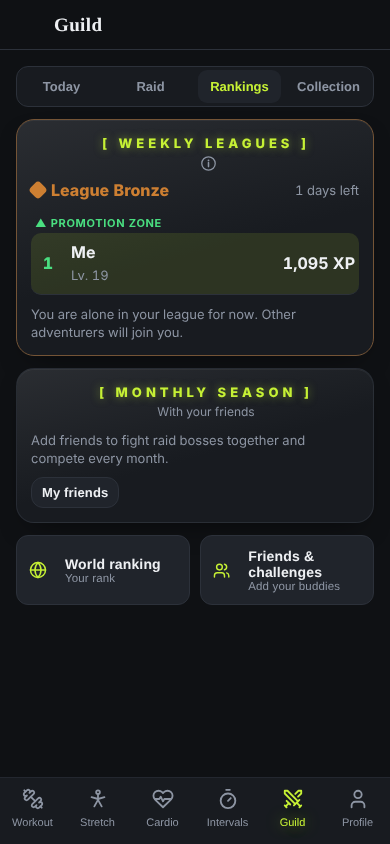
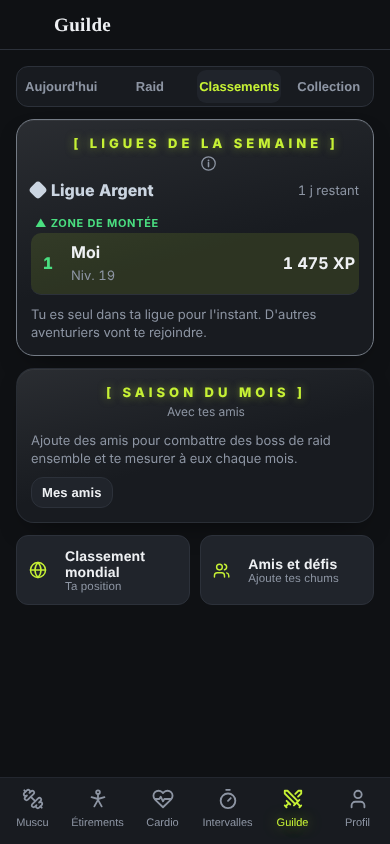
v9.115.0 : signaler et bloquer, filtre de mots, plafonds anti-triche des ligues
Claude-Session: https://claude.ai/code/session_014VBvzn7cPipHkoepy8RC9p

diff --git a/index.html b/index.html
@@ -6714,8 +6714,14 @@ function sUid(v) { return typeof v === 'string' && /^[A-Za-z0-9_-]{1,128}$/.test
 function sH(v) { return typeof v === 'string' && /^[a-z0-9._]{3,20}$/.test(v) ? v : ''; }
 function sArr(v, n) { return Array.isArray(v) ? v.slice(0, n || 200).filter(x => x && typeof x === 'object' && !Array.isArray(x)) : []; }
 /* Nom à afficher : celui de la personne, sinon son @pseudo, sinon « Un ami » dans MA langue */
-function sName(v, h) { const n = sStr(v, 40).trim(); return n && !/^(un ami|a friend)$/i.test(n) ? n : (sH(h) ? '@' + h : T('Un ami', 'A friend')); }
-function myNm() { return (S.settings.name || '').trim() || (myH() ? '@' + myH() : T('Un ami', 'A friend')); }
+/* ---------- Filtre de mots : insultes et propos haineux masqués partout ; jurons masqués dans ce que des inconnus voient (noms, pseudos, ligues) ---------- */
+const W_SLUR = new Set('negre negres negro negros nigger niggers nigga niggas bougnoule bougnoules youpin youpins pd pede pedes tapette tapettes fif fifs fag fags faggot faggots tranny retard retards retarde retardes mongol mongols nazi nazis hitler kkk salope salopes pute putes putain connard connards connasse encule encules enculer niquer nique ntm fdp bitch bitches cunt cunts whore whores slut sluts pussy dick dicks cock cocks bite chatte motherfucker'.split(' '));
+const W_SWEAR = new Set('tabarnak tabarnac tabernak calice caliss calisse osti ostie esti criss crisse fuck fucker fucking fuk shit merde con cons batard batards couille couilles penis vagin sexe sex porn porno'.split(' '));
+const wFold = w => w.normalize('NFD').replace(/[\u0300-\u036f]/g, '').toLowerCase();
+const wMask = (v, pub) => String(v || '').replace(/[\p{L}\p{N}]+/gu, w => { const f = wFold(w); return W_SLUR.has(f) || (pub && W_SWEAR.has(f)) ? '•'.repeat(Math.min(w.length, 6)) : w; });
+const wBad = v => wMask(v, true) !== String(v || '');
+function sName(v, h) { const n = wMask(sStr(v, 40).trim(), true); return n && !/^(un ami|a friend)$/i.test(n) ? n : (sH(h) ? '@' + h : T('Un ami', 'A friend')); }
+function myNm() { const n = (S.settings.name || '').trim(); return n && !wBad(n) ? n : (myH() ? '@' + myH() : T('Un ami', 'A friend')); }
 function safeCard(raw) { // carte d'un ami
   const d = safeIn(raw); if (!d || typeof d !== 'object' || Array.isArray(d)) return null;
   d.app = sStr(d.app, 20); d.name = sStr(d.name, 40).trim(); d.av = sImg(d.av); d.wk = sNum(d.wk); d.up = sStr(d.up, 40);
@@ -6738,8 +6744,8 @@ function cardIn(raw, h) { // carte reçue → carte vérifiée (ou null si ce n'
   d.h = sH(h) || sH(d.h); d.name = sName(d.name, d.h); return d;
 }
 function safeLive(l) { l = safeIn(l); return l && typeof l === 'object' && !Array.isArray(l) ? {r: sStr(l.r, 80), st: sStr(l.st, 40), s: sInt(l.s, 0, 0, 999), e: sInt(l.e, 0, 0, 99), n: sInt(l.n, 0, 0, 99), up: sStr(l.up, 40)} : null; }
-function safeLb(x) { x = safeIn(x); if (!x || typeof x !== 'object') x = {}; return {id: sStr(x.id, 140), n: sStr(x.n, 24), l: sInt(x.l, 1, 1, 9999), p: sInt(x.p, 0, 0, 999), rk: RKC[x.rk] ? x.rk : 'E', xp: sNum(x.xp), w: sInt(x.w, 0, 0, 99), f: sStr(x.f, 40), e: sStr(x.e, 40)}; }
-function safeHandle(id, v) { v = safeIn(v); if (!v || typeof v !== 'object') return null; const uid = sUid(v.uid), h = sH(id); return uid && h ? {h, uid, n: sStr(v.n, 40).trim(), l: sInt(v.l, 0, 0, 9999)} : null; }
+function safeLb(x) { x = safeIn(x); if (!x || typeof x !== 'object') x = {}; return {id: sStr(x.id, 140), n: wMask(sStr(x.n, 24), true), bad: +x.xp > LB_XP_MAX || +x.lx > LG_XP_MAX || +x.l > 2000, l: sInt(x.l, 1, 1, 9999), p: sInt(x.p, 0, 0, 999), rk: RKC[x.rk] ? x.rk : 'E', xp: sNum(x.xp), w: sInt(x.w, 0, 0, 99), f: sStr(x.f, 40), e: sStr(x.e, 40)}; }
+function safeHandle(id, v) { v = safeIn(v); if (!v || typeof v !== 'object') return null; const uid = sUid(v.uid), h = sH(id); return uid && h && !wBad(h) ? {h, uid, n: wMask(sStr(v.n, 40).trim(), true), l: sInt(v.l, 0, 0, 9999)} : null; }
 /* Contenu d'un lien ou d'un code de partage (routines, minuteurs, étirements) */
 function cleanEx(e) {
   const name = sStr(e.name, 100).trim(); if (!name) return null;
@@ -6849,9 +6855,10 @@ function doImport() {
 
 
 /* ===================== Nouveautés (à mettre à jour à chaque version) ===================== */
-const APP_VERSION = '9.114.0'; // ⚠ Mettre aussi le même numéro dans version.json (sinon pas de mise à jour automatique)
+const APP_VERSION = '9.115.0'; // ⚠ Mettre aussi le même numéro dans version.json (sinon pas de mise à jour automatique)
 /* Notes de mise à jour : UNE seule entrée par jour. Si une entrée existe déjà pour aujourd'hui, mets-la à jour (v = dernière version, ajoute/réécris les puces) au lieu d'en ajouter une nouvelle. */
 const CHANGELOG = [
+  {v: '9.115.0', d: '2026-11-22', fr: ['Signaler et bloquer : touche un joueur dans ta ligue ou le classement mondial, ou ouvre le profil d\'un ami, pour le signaler ou le bloquer. Un commentaire peut aussi être signalé. Les personnes bloquées sont dans Amis → Ce que tes amis voient.', 'Filtre de mots : insultes et propos haineux masqués, et pseudos ou noms grossiers refusés dans les ligues et le classement.', 'Ligues plus justes : plafonds réalistes d\'XP (3 séances par jour, 60 séries et 15 records par séance au plus) et scores impossibles écartés.'], en: ['Report and block: tap a player in your league or the world ranking, or open a friend\'s profile, to report or block them. A comment can be reported too. Blocked people are in Friends → What friends see.', 'Word filter: insults and hate speech masked, and rude usernames or names refused in leagues and the ranking.', 'Fairer leagues: realistic XP caps (3 workouts a day, 60 sets and 15 records per workout at most) and impossible scores removed.']},
   {v: '9.114.0', d: '2026-11-22', fr: ['Fil des amis plus léger : les photos ne sont plus dans ta fiche d\'ami. Chacune est envoyée une seule fois, chargée seulement quand elle arrive à l\'écran, puis gardée sur ton téléphone. Le fil se charge plus vite et utilise beaucoup moins de données.'], en: ['Lighter friends feed: photos are no longer inside your friend card. Each one is sent once, loaded only when it comes on screen, then kept on your phone. The feed loads faster and uses much less data.']},
   {v: '9.113.2', d: '2026-11-22', fr: ['Ligues : groupes de 30 aventuriers au plus, formés dans l\'ordre d\'arrivée de la semaine, pour que les ligues restent justes même avec des milliers de joueurs.'], en: ['Leagues: groups of at most 30 adventurers, formed in order of arrival each week, so leagues stay fair even with thousands of players.']},
   {v: '9.113.1', d: '2026-11-22', fr: ['« Faire cette séance » dans le fil : choisis de la démarrer tout de suite, ou de l\'enregistrer comme routine (dans le dossier « De mes amis » ou celui de ton choix).'], en: ['“Do this workout” in the feed: choose to start it right away, or save it as a routine (in the “From friends” folder or one you pick).']},
@@ -8700,6 +8707,42 @@ async function fbPublish(touch) {
   if (frAgain) { frAgain = false; setTimeout(() => frPublish(false), 300); }
   if (cur().v === 'friends') render();
 }
+/* ---------- Signaler et bloquer (exigé par Google Play pour les applis où les gens partagent du contenu) ----------
+   Bloquer : la personne disparaît de mes amis, de mes ligues, du classement, de mes recherches et ne peut plus m'envoyer de demande.
+   Signaler : un document dans reports/, lu seulement par le propriétaire de l'appli (console Firebase). */
+const BLK = () => (FRS().block = FRS().block || []);
+const isBlk = id => { const u = String(id || '').replace(/^fb:/, ''); return !!u && BLK().some(x => x.u === u); };
+function usrBlock(u, n) {
+  u = sUid(u); if (!u || isBlk(u)) return; const fr = FRS(), c = 'fb:' + u;
+  BLK().push({u, n: String(n || '').slice(0, 40), t: new Date().toISOString()});
+  fr.list = fr.list.filter(x => x.c !== c); fr.re = (fr.re || []).filter(x => x.to !== c); fr.reqIn = (fr.reqIn || []).filter(x => x.uid !== u); fr.reqOut = (fr.reqOut || []).filter(x => x.uid !== u); delete frData[c];
+  try { frSaveCache(); } catch (e) {} save(); fbAllowSync(); if (frOn()) frQueue(false); lgData = null; lbData = null;
+  toast(T(`${n || 'Cette personne'} est bloquée`, `${n || 'This person'} is blocked`));
+}
+function usrUnblock(u) { FRS().block = BLK().filter(x => x.u !== u); save(); lgData = null; lbData = null; toast(T('Débloqué', 'Unblocked')); }
+const REP_WHY = [['harc', 'Harcèlement ou insultes', 'Harassment or insults'], ['sex', 'Contenu sexuel ou choquant', 'Sexual or shocking content'], ['nom', 'Nom ou photo inapproprié', 'Inappropriate name or photo'], ['triche', 'Triche', 'Cheating'], ['spam', 'Spam ou arnaque', 'Spam or scam'], ['autre', 'Autre', 'Other']];
+let repCtx = null;
+function usrMenu(u, n, x, t) {
+  u = sUid(u); if (!u) return; const me = fbMe(); if (me && me.uid === u) return; const blk = isBlk(u);
+  modal(`<div class="row between"><h2 style="margin:0">${esc(n || '?')}</h2><button class="btn sm" data-act="close">✕</button></div>
+    <button class="btn block" style="margin-top:12px" data-act="usr-rep" data-u="${u}" data-n="${esc(n || '')}" data-x="${esc(x || '')}" data-t="${esc(t || '')}">${ic('alert', 18)} ${T('Signaler', 'Report')}</button>
+    <button class="btn block" style="margin-top:8px${blk ? '' : ';color:var(--bad)'}" data-act="${blk ? 'usr-unblk' : 'usr-blk'}" data-u="${u}" data-n="${esc(n || '')}">${ic('lock', 18)} ${blk ? T('Débloquer', 'Unblock') : T('Bloquer', 'Block')}</button>
+    ${blk ? '' : `<p class="small muted" style="margin:10px 0 0">${T('Bloquer : cette personne n\'apparaît plus dans tes amis, tes ligues, le classement et tes recherches, et ne peut plus t\'envoyer de demande.', 'Block: this person no longer appears in your friends, leagues, ranking and searches, and can no longer send you requests.')}</p>`}`);
+}
+function usrReport(u, n, x, t) {
+  repCtx = {u: sUid(u), n: String(n || '').slice(0, 40), x: String(x || '').slice(0, 20), t: String(t || '').slice(0, 300)}; if (!repCtx.u) return;
+  closeAll(); modal(`<div class="row between"><h2 style="margin:0">${T('Signaler', 'Report')} ${esc(repCtx.n)}</h2><button class="btn sm" data-act="close">✕</button></div>
+    <p class="small muted" style="margin:6px 0 10px">${T('Pourquoi? Ton signalement est anonyme pour cette personne.', 'Why? Your report is anonymous to this person.')}</p>
+    ${REP_WHY.map(([k, fr, en]) => `<button class="btn block" style="margin-top:6px;justify-content:flex-start" data-act="rep-send" data-k="${k}">${esc(T(fr, en))}</button>`).join('')}`);
+}
+async function repSend(k) {
+  const c = repCtx; if (!c) return; closeAll();
+  const u = await fbSignIn(false).catch(() => null); if (!u) { toast(T('Connecte-toi pour signaler', 'Sign in to report')); return; }
+  try { await fbDb().collection('reports').add({by: u.uid, who: c.u, why: k, ctx: c.x, txt: c.t, n: c.n, t: new Date().toISOString(), v: APP_VERSION}); } catch (e) { toast(T('Envoi impossible pour le moment', 'Could not send right now')); return; }
+  modal(`<h2 style="margin:0 0 6px">${T('Merci', 'Thank you')}</h2><p class="small">${T('Ton signalement a été envoyé. On le regarde au plus vite.', 'Your report was sent. We will look at it as soon as possible.')}</p>
+    ${isBlk(c.u) ? '' : `<button class="btn block" style="margin-top:8px;color:var(--bad)" data-act="usr-blk" data-u="${c.u}" data-n="${esc(c.n)}">${T('Bloquer aussi', 'Block as well')} ${esc(c.n)}</button>`}<button class="btn primary block" style="margin-top:8px" data-act="close">OK</button>`);
+}
+
 /* ---------- Photos des amis hors de la fiche ----------
    Avant : les photos étaient dans la fiche (jusqu'à 900 Ko), renvoyée en entier à chaque « j'aime ». Avec des milliers d'utilisateurs, c'est
    des dizaines de Go par mois. Maintenant : users/{uid}/ph/{id}, envoyée une seule fois, lue seulement quand elle arrive à l'écran, puis gardée sur le téléphone. */
@@ -9003,7 +9046,7 @@ const lbCache = () => { try { return JSON.parse(localStorage.getItem(LBKEY) || '
 async function lbPush() {
   if (!S.settings.lbOn || !GAME()) return; const u = typeof firebase !== 'undefined' && firebase.apps.length && firebase.auth().currentUser; if (!u) return;
   const h = hunter(), wk = S.history.filter(x => Date.now() - new Date(x.date) < 7 * 864e5).length;
-  try { await fbDb().collection('lb').doc(u.uid).set({n: ((S.settings.name || '').trim() || T('Aventurier', 'Adventurer')).slice(0, 24), l: h.lvl, p: h.p || 0, rk: h.rk, xp: Math.round(h.raw || h.xp), w: wk, f: myFrame() || '', e: myCos('emblem') || '', t: new Date().toISOString(), ...lgFields()}); } catch (e) {}
+  try { await fbDb().collection('lb').doc(u.uid).set({n: (myNm().replace(/^@/, '') || T('Aventurier', 'Adventurer')).slice(0, 24), l: h.lvl, p: h.p || 0, rk: h.rk, xp: Math.round(h.raw || h.xp), w: wk, f: myFrame() || '', e: myCos('emblem') || '', t: new Date().toISOString(), ...lgFields()}); } catch (e) {}
 }
 async function lbLoad(force) {
   const C = lbCache(), c = C[lbTab];
@@ -9022,7 +9065,7 @@ function vWorld() {
   if (lbData.err) return tabs + `<p class="muted center" style="margin:30px 0">⚠ ${esc(lbData.err)}</p>`;
   const meI = lbData.findIndex(x => x.id === me);
   return tabs + `${meI < 0 ? `<p class="small muted center">${T('Tu n\'es pas encore dans le top 50', 'You\'re not in the top 50 yet')}</p>` : `<p class="small center"><b>${T('Ta position', 'Your rank')}${CLN()} #${meI + 1}</b></p>`}<div class="row between small muted" style="margin:-4px 0 8px"><span>${T('Mis à jour', 'Updated')} ${ago(new Date(lbAt).toISOString())}</span><button class="btn sm ghost" data-act="lb-refresh">↻ ${T('Actualiser', 'Refresh')}</button></div>
-    <div class="card" style="padding:4px 12px">${lbData.map((x, i) => `<div class="row lbrow${x.id === me ? ' me' : ''}"><b class="lbn">${i < 3 ? ['🥇', '🥈', '🥉'][i] : '#' + (i + 1)}</b>${rkBadge(x.rk || 'E', 'mrk')}<span style="flex:1;min-width:0"><b>${esc(x.n || '')}</b>${x.e ? ' <span class="emb">' + embSvg(x.e) + '</span>' : ''}<br><span class="muted small">${T('Niv.', 'Lv.')} ${x.l}${x.p ? ' 🌟' + x.p : ''}</span></span><b>${lbTab === 'xp' ? Math.round(x.xp).toLocaleString(LOC()) + ' XP' : x.w + ' ' + T('séances', 'workouts')}</b></div>`).join('')}</div>
+    <div class="card" style="padding:4px 12px">${lbData.filter(x => x.id === me || (!x.bad && !isBlk(x.id))).map((x, i) => `<div class="row lbrow${x.id === me ? ' me' : ' tap'}"${x.id === me ? '' : ` data-act="usr" data-u="${esc(x.id)}" data-n="${esc(x.n || '')}" data-x="world"`}><b class="lbn">${i < 3 ? ['🥇', '🥈', '🥉'][i] : '#' + (i + 1)}</b>${rkBadge(x.rk || 'E', 'mrk')}<span style="flex:1;min-width:0"><b>${esc(x.n || '')}</b>${x.e ? ' <span class="emb">' + embSvg(x.e) + '</span>' : ''}<br><span class="muted small">${T('Niv.', 'Lv.')} ${x.l}${x.p ? ' 🌟' + x.p : ''}</span></span><b>${lbTab === 'xp' ? Math.round(x.xp).toLocaleString(LOC()) + ' XP' : x.w + ' ' + T('séances', 'workouts')}</b></div>`).join('')}</div>
     <button class="btn sm ghost block" data-act="lb-off" style="margin-top:10px">${T('Ne plus participer', 'Leave the ranking')}</button>`;
 }
 
@@ -9030,7 +9073,7 @@ function vWorld() {
    Chaque semaine, les aventuriers du classement mondial sont groupés par ligue. XP de la semaine seulement.
    Le haut 20 % monte, le bas 20 % descend (dès 5 actifs). Données dans lb/{uid} : lk/lx = semaine en cours, pk/px = semaine passée. */
 const LG = [['Bronze', 'Bronze', '#cd7f32'], ['Argent', 'Silver', '#cbd5e1'], ['Or', 'Gold', '#f5c542'], ['Platine', 'Platinum', '#67e8f9'], ['Diamant', 'Diamond', '#a78bfa'], ['Maître', 'Master', '#f472b6'], ['Légende', 'Legend', '#ef4444']];
-const LG_CUT = .2, LG_MIN = 5, LG_SIZE = 30; // groupes de 30 au plus : avec des milliers de joueurs, chaque ligue a plusieurs groupes
+const LG_CUT = .2, LG_MIN = 5, LG_SIZE = 30, LG_XP_MAX = 12000, LB_XP_MAX = 5e6; // au-delà : score impossible, écarté (et refusé par les règles) // groupes de 30 au plus : avec des milliers de joueurs, chaque ligue a plusieurs groupes
 const lgS = () => (S.lg = S.lg || {t: 0, wk: wkKey(new Date()), best: 0, h: []});
 const lgKey = (wk, t, g) => wk + ':' + t + (g ? ':' + g : ''); // groupe 0 = ancienne clé, pour rester compatible
 const lgG = (L, wk) => L.gw === wk ? +L.g || 0 : 0;
@@ -9056,12 +9099,14 @@ function weekXp(wk) { // XP gagnée pendant la semaine (même calcul que la sais
   if (wxMemo.has(k)) return wxMemo.get(k);
   const [a, b] = wkRange(wk), inD = v => { v = v && v.d || v; const t = typeof v === 'string' && v.length === 10 ? +new Date(v + 'T12:00:00') : +new Date(v); return t >= a && t < b; };
   const pc = prCounts(), hw = S.history.filter(h => inD(h.date));
-  let xp = hw.length * 100 + hw.reduce((t, h) => t + h.exercises.reduce((u, e) => u + work(e.sets).length, 0), 0) * 5 + hw.reduce((t, h) => t + (pc.get(h.id) || 0), 0) * 40;
+  // plafonds par séance : 60 séries, 15 records ; 3 séances par jour au plus
+  let xp = 0; const dayN = {};
+  hw.forEach(h => { const k = dkey(new Date(h.date)); dayN[k] = (dayN[k] || 0) + 1; if (dayN[k] > 3) return; xp += 100 + Math.min(60, h.exercises.reduce((u, e) => u + work(e.sets).length, 0)) * 5 + Math.min(15, pc.get(h.id) || 0) * 40; });
   try { xp += Object.values(medalsEarned().got).filter(inD).length * 250; } catch (e) {}
   xp += Object.keys(S.questLog || {}).filter(inD).length * 150 + Object.values(S.dungeonLog || {}).filter(inD).length * 500 + Object.values(S.bossLog || {}).filter(inD).length * 1000;
   xp -= qFailSum(S.qFail, inD);
   xp += (S.xpb || []).filter(x => inD(x.d)).reduce((t, x) => t + (+x.xp || 0), 0);
-  xp = Math.max(0, Math.round(xp)); wxMemo.set(k, xp); return xp;
+  xp = Math.max(0, Math.min(LG_XP_MAX, Math.round(xp))); wxMemo.set(k, xp); return xp;
 }
 function lgFields() { // ce que j'ajoute à ma fiche du classement
   const L = lgS(), wk = wkKey(new Date()), o = {lk: lgKey(wk, L.wk === wk ? L.t : L.t, lgG(L, wk)), lx: weekXp(wk), lt: L.t};
@@ -9077,7 +9122,7 @@ async function lgLoad(force) {
   const u = await fbSignIn(false).catch(() => null); if (!u) return;
   try {
     const qs = await fbDb().collection('lb').where('lk', '==', key).limit(100).get();
-    const rows = qs.docs.map(d => { const x = safeLb({id: d.id, ...d.data()}); return {id: d.id, n: x.n, l: x.l, rk: x.rk, e: x.e, x: Math.max(0, Math.round(+d.data().lx || 0))}; }).filter(r => r.id !== u.uid);
+    const rows = qs.docs.map(d => { const x = safeLb({id: d.id, ...d.data()}); return {id: d.id, n: x.n, l: x.l, rk: x.rk, e: x.e, bad: x.bad, x: Math.max(0, Math.round(+d.data().lx || 0))}; }).filter(r => r.id !== u.uid && !r.bad && !isBlk(r.id));
     rows.push({id: u.uid, me: true, n: (S.settings.name || '').trim() || T('Moi', 'Me'), l: hunter().lvl, rk: hunter().rk, x: weekXp(wkKey(new Date()))});
     lgData = {key, at: Date.now(), rows: rows.sort((p, q) => q.x - p.x)}; lgAt = lgData.at; try { localStorage.setItem('cm-lg', JSON.stringify(lgData)); } catch (e) {}
   } catch (e) { lgData = {key, err: e.code || e.message}; }
@@ -9090,6 +9135,7 @@ async function lgRoll() { // nouvelle semaine : on regarde où j'ai fini la sema
     const pw = L.wk, pg = lgG(L, pw), key = lgKey(pw, L.t, pg), db = fbDb().collection('lb');
     const [a, b] = await Promise.all([db.where('lk', '==', key).limit(100).get(), db.where('pk', '==', key).limit(100).get()]);
     const m = new Map(); a.docs.forEach(d => m.set(d.id, +d.data().lx || 0)); b.docs.forEach(d => { if (!m.has(d.id)) m.set(d.id, +d.data().px || 0); });
+    [...m.keys()].forEach(id => { if (m.get(id) > LG_XP_MAX || isBlk(id)) m.delete(id); }); // scores impossibles (triche) et personnes bloquées : pas comptés
     const mx = weekXp(pw); m.set(u.uid, mx);
     const act = [...m.entries()].filter(([, x]) => x > 0).sort((p, q) => q[1] - p[1]), n = act.length, r = act.findIndex(([id]) => id === u.uid) + 1;
     if (L.wk !== pw || L.wk === wk) return; // une autre fenêtre l'a déjà fait
@@ -9124,7 +9170,7 @@ function lgCard() {
   else if (lgData.err) body = `<p class="muted small center" style="margin:14px 0">${esc(lgData.err)}</p>`;
   else {
     const R = lgData.rows, act = R.filter(r => r.x > 0).length, up = L.t < LG.length - 1 ? lgUp(act) : 0, dn = L.t > 0 ? lgDn(act) : 0;
-    body = R.map((r, i) => `${i === 0 && up && act ? `<div class="lgzone up">▲ ${T('Zone de montée', 'Promotion zone')}</div>` : ''}${i === up && up && act > up ? '<div class="lgcut"></div>' : ''}${dn && i === act - dn ? `<div class="lgzone dn">▼ ${T('Zone de descente', 'Demotion zone')}</div>` : ''}<div class="lgrow${r.me ? ' me' : ''}${up && i < up && r.x > 0 ? ' lgu' : ''}${dn && i >= act - dn && i < act ? ' lgd' : ''}"><b class="lgp">${i + 1}</b><span style="flex:1;min-width:0"><b>${esc(r.me ? T('Moi', 'Me') : r.n || '?')}</b>${r.e ? ' <span class="emb">' + embSvg(r.e) + '</span>' : ''}<br><span class="muted small">${T('Niv.', 'Lv.')} ${r.l || 1}</span></span><b>${(r.x || 0).toLocaleString(LOC())} XP</b></div>`).join('')
+    body = R.map((r, i) => `${i === 0 && up && act ? `<div class="lgzone up">▲ ${T('Zone de montée', 'Promotion zone')}</div>` : ''}${i === up && up && act > up ? '<div class="lgcut"></div>' : ''}${dn && i === act - dn ? `<div class="lgzone dn">▼ ${T('Zone de descente', 'Demotion zone')}</div>` : ''}<div class="lgrow${r.me ? ' me' : ' tap'}${up && i < up && r.x > 0 ? ' lgu' : ''}${dn && i >= act - dn && i < act ? ' lgd' : ''}"${r.me ? '' : ` data-act="usr" data-u="${esc(r.id)}" data-n="${esc(r.n || '')}" data-x="league"`}><b class="lgp">${i + 1}</b><span style="flex:1;min-width:0"><b>${esc(r.me ? T('Moi', 'Me') : r.n || '?')}</b>${r.e ? ' <span class="emb">' + embSvg(r.e) + '</span>' : ''}<br><span class="muted small">${T('Niv.', 'Lv.')} ${r.l || 1}</span></span><b>${(r.x || 0).toLocaleString(LOC())} XP</b></div>`).join('')
       + (R.length < 2 ? `<p class="small muted" style="margin:10px 0 0">${T('Tu es seul dans ta ligue pour l\'instant. D\'autres aventuriers vont te rejoindre.', 'You are alone in your league for now. Other adventurers will join you.')}</p>` : '');
   }
   return `<div class="card sysw gwin" style="margin-bottom:12px;border-color:color-mix(in srgb,${lc} 45%,var(--line))"><div class="gswh" style="margin-bottom:8px"><span class="sysh" style="margin:0">[ ${T('LIGUES DE LA SEMAINE', 'WEEKLY LEAGUES')} ]</span>${info}</div>${head}${body}</div>`;
@@ -9901,7 +9947,7 @@ function chPaint() {
 function frComments(owner, sid) {
   const fr = FRS(), out = [];
   (fr.cm || []).forEach(x => { if (x.to === owner && x.s === sid) out.push({n: T('Toi', 'You'), t: x.t, d: x.d, r: x.r, me: 1, av: S.settings.avatar}); });
-  fr.list.forEach(f => { const d = frData[f.c] && frData[f.c].d; (d && d.cm || []).forEach(x => { if (x.to === owner && x.s === sid) out.push({n: d.name, t: x.t, d: x.d, r: x.r, av: d.av}); }); });
+  fr.list.forEach(f => { if (isBlk(f.c)) return; const d = frData[f.c] && frData[f.c].d; (d && d.cm || []).forEach(x => { if (x.to === owner && x.s === sid) out.push({n: d.name, t: wMask(x.t, false), d: x.d, r: x.r, av: d.av, c: f.c}); }); });
   return out.sort((a, b) => (a.d || '').localeCompare(b.d || ''));
 }
 function frCmRow(f, s) {
@@ -9913,7 +9959,7 @@ function frCmOpen(owner, sid, reply) {
   const cs = frComments(owner, sid);
   modal(`<div class="row between"><h2 style="margin:0">${T('Commentaires', 'Comments')}</h2><button class="btn sm" data-act="close">✕</button></div>
     <div class="frcml">${cs.length ? cs.map(c => `<div class="frcmi">${cmAv(c)}<div style="flex:1;min-width:0"><div class="small"><b>${esc(c.n)}</b> <span class="muted">· ${c.d ? frAgo(c.d) : ''}</span></div><div>${c.r ? `<span class="muted">@${esc(c.r)}</span> ` : ''}${esc(c.t)}</div>
-      <div class="frcma">${c.me ? `<button class="linkbtn small" data-act="fr-cm-del" data-c="${owner}" data-s="${esc(sid)}" data-d="${esc(c.d || '')}">${T('Supprimer', 'Delete')}</button>` : `<button class="linkbtn small" data-act="fr-cm-rep" data-c="${owner}" data-s="${esc(sid)}" data-n="${esc(c.n)}">${T('Répondre', 'Reply')}</button>`}</div></div></div>`).join('') : `<p class="muted small">${T('Pas encore de commentaire. Sois le premier!', 'No comments yet. Be the first!')}</p>`}</div>
+      <div class="frcma">${c.me ? `<button class="linkbtn small" data-act="fr-cm-del" data-c="${owner}" data-s="${esc(sid)}" data-d="${esc(c.d || '')}">${T('Supprimer', 'Delete')}</button>` : `<button class="linkbtn small" data-act="fr-cm-rep" data-c="${owner}" data-s="${esc(sid)}" data-n="${esc(c.n)}">${T('Répondre', 'Reply')}</button> <button class="linkbtn small muted" data-act="usr-rep" data-u="${esc(String(c.c || '').replace(/^fb:/, ''))}" data-n="${esc(c.n)}" data-x="comment" data-t="${esc(c.t)}">${T('Signaler', 'Report')}</button>`}</div></div></div>`).join('') : `<p class="muted small">${T('Pas encore de commentaire. Sois le premier!', 'No comments yet. Be the first!')}</p>`}</div>
     ${reply ? `<div class="small muted" style="margin-bottom:4px">${T('Réponse à', 'Replying to')} <b>${esc(reply)}</b> · <button class="linkbtn small" data-act="fr-cm" data-c="${owner}" data-s="${esc(sid)}">${T('Annuler', 'Cancel')}</button></div>` : ''}
     <div class="frcmin"><textarea id="cmin" maxlength="200" rows="1" placeholder="${reply ? T(`Répondre à ${esc(reply)}…`, `Reply to ${esc(reply)}…`) : T('Écris un commentaire…', 'Write a comment…')}" data-noic></textarea>
     <button class="btn primary" data-act="fr-cm-send" data-c="${owner}" data-s="${esc(sid)}" data-r="${esc(reply || '')}" aria-label="${T('Envoyer', 'Send')}">${ic('share', 18)}</button></div>`);
@@ -10664,6 +10710,7 @@ function vFriends() {
       <label class="row" style="gap:10px;margin:10px 0"><input type="checkbox" data-act="fr-now" ${fr.noW ? 'checked' : ''} style="width:auto"> ${T('Cacher les poids soulevés', 'Hide weights lifted')}</label>
       <p class="muted small" style="margin:0 0 6px">${T('Touche une séance pour la rendre privée :', 'Tap a workout to make it private:')}</p>
       ${S.history.slice(-8).reverse().map(x => `<button class="btn sm block" style="justify-content:space-between;margin-top:6px" data-act="fr-hide" data-id="${x.id}"><span>${esc(x.routineName || '')} · ${dateFr(x.date)}</span><span>${(fr.hide || []).includes(x.id) ? '🔒 ' + T('privée', 'private') : '👁 ' + T('visible', 'visible')}</span></button>`).join('')}
+      ${BLK().length ? `<p class="muted small" style="margin:14px 0 6px">${T('Personnes bloquées', 'Blocked people')}</p>${BLK().map(x => `<div class="row between small" style="margin-top:6px"><span>${esc(x.n || '?')}</span><button class="btn sm" data-act="usr-unblk" data-u="${esc(x.u)}">${T('Débloquer', 'Unblock')}</button></div>`).join('')}` : ''}
       <button class="btn block" data-act="fr-stop" style="margin-top:12px;color:var(--bad)">${T('Arrêter le partage', 'Stop sharing')}</button></details>` : ''}`;
 }
 function friendsCard() {
@@ -11395,7 +11442,7 @@ document.addEventListener('click', e => {
     case 'req-no': frReqDecline(b.dataset.u); break;
     case 'req-later': { const p = document.getElementById('reqpop'); if (p) p.remove(); break; }
     case 'h-pick': { const i = $('#hin'); if (i) { i.value = b.dataset.h; hCheck(); } break; }
-    case 'h-save': { const h = hNorm(($('#hin') || {}).value); if (!H_RE.test(h)) { toast(T('Pseudo invalide', 'Invalid username')); break; } b.disabled = true; hClaim(h).then(() => { closeAll(); render(); toast(T(`✅ Ton pseudo : @${h}`, `✅ Your username: @${h}`)); }, e => { b.disabled = false; S.settings.hAsk = false; saveLocal(); toast(e.message === 'taken' ? T('Ce pseudo est déjà pris', 'Username taken') : '⚠ ' + e.message); hCheck(); }); break; }
+    case 'h-save': { const h = hNorm(($('#hin') || {}).value); if (!H_RE.test(h)) { toast(T('Pseudo invalide', 'Invalid username')); break; } if (wBad(h.replace(/[._]/g, ' '))) { toast(T('Ce pseudo n\'est pas permis', 'This username is not allowed')); break; } b.disabled = true; hClaim(h).then(() => { closeAll(); render(); toast(T(`✅ Ton pseudo : @${h}`, `✅ Your username: @${h}`)); }, e => { b.disabled = false; S.settings.hAsk = false; saveLocal(); toast(e.message === 'taken' ? T('Ce pseudo est déjà pris', 'Username taken') : '⚠ ' + e.message); hCheck(); }); break; }
     case 'fb-popup': closeAll(); fbStart.popup = true; fbStart().finally(() => { fbStart.popup = false; }); break;
     case 'fb-popup-add': { const cc = b.dataset.c; closeAll(); frAdd.popup = true; frAdd(cc).finally(() => { frAdd.popup = false; }); break; }
     case 'cb-on': cbEnable(); break;
@@ -11519,6 +11566,11 @@ document.addEventListener('click', e => {
     case 'fr-cm-rep': closeModal(); frCmOpen(b.dataset.c, b.dataset.s, b.dataset.n); break;
     case 'fr-cm-del': { const fr = FRS(); if (!confirm(T('Supprimer ce commentaire?', 'Delete this comment?'))) break; fr.cm = (fr.cm || []).filter(x => !(x.to === b.dataset.c && x.s === b.dataset.s && (x.d || '') === b.dataset.d)); save(); closeModal(); frCmOpen(b.dataset.c, b.dataset.s); render(); frQueue(true); break; }
     case 'fr-likers': frLikersOpen(b.dataset.c, b.dataset.s); break;
+    case 'usr': usrMenu(b.dataset.u, b.dataset.n, b.dataset.x, b.dataset.t); break;
+    case 'usr-rep': usrReport(b.dataset.u, b.dataset.n, b.dataset.x, b.dataset.t); break;
+    case 'rep-send': repSend(b.dataset.k); break;
+    case 'usr-blk': if (confirm(T(`Bloquer ${b.dataset.n || 'cette personne'}?`, `Block ${b.dataset.n || 'this person'}?`))) { closeAll(); usrBlock(b.dataset.u, b.dataset.n); render(); } break;
+    case 'usr-unblk': closeAll(); usrUnblock(b.dataset.u); render(); break;
     case 'fr-more': { const k = b.dataset.k; if (FRX.has(k)) FRX.delete(k); else FRX.add(k); render(); break; }
     case 'fr-now': FRS().noW = b.checked; save(); frQueue(false); break;
     case 'fr-hide': { const fr = FRS(), id = b.dataset.id; fr.hide = fr.hide || []; const i = fr.hide.indexOf(id); if (i >= 0) fr.hide.splice(i, 1); else fr.hide.push(id); save(); render(); frQueue(false); break; }
@@ -11538,6 +11590,7 @@ document.addEventListener('click', e => {
           ${d ? `<p class="small muted" style="margin:0">🔥 ${d.wk || 0} ${T('sem. de suite', 'weeks in a row')} · ${nS} ${T('séance' + (nS > 1 ? 's' : ''), 'workout' + (nS > 1 ? 's' : ''))} · ${(d.p || []).length} 📸</p>` : ''}${frBossRow(d)}</div>
         <div style="margin-top:12px">${items.length ? items.map(frPost).join('') : `<p class="muted center">${T('Rien de partagé pour l\'instant.', 'Nothing shared yet.')}</p>`}</div>
         ${me ? `<button class="btn block" data-act="fr-code" style="margin-top:8px">${T('Mon code ami', 'My friend code')}</button>` : `<button class="btn primary block" data-act="ch-new" data-c="${f.c}" style="margin-top:8px">⚔ ${T('Défier', 'Challenge')} ${esc((d && d.name) || f.n || '')}</button><button class="btn block" data-act="fr-del" data-c="${f.c}" style="color:var(--bad);margin-top:8px">${T('Retirer de mes amis', 'Remove friend')}</button>`}`);
+      if (!me && fbIs(c)) { const sh = document.querySelector('.modal:last-child .sheet') || document.querySelector('.sheet'); if (sh) sh.insertAdjacentHTML('beforeend', `<div class="row" style="gap:8px;margin-top:8px"><button class="btn sm" style="flex:1" data-act="usr-rep" data-u="${c.slice(3)}" data-n="${esc((d && d.name) || f.n || '')}" data-x="profile">${T('Signaler', 'Report')}</button><button class="btn sm" style="flex:1;color:var(--bad)" data-act="usr-blk" data-u="${c.slice(3)}" data-n="${esc((d && d.name) || f.n || '')}">${T('Bloquer', 'Block')}</button></div>`); }
       setTimeout(phFill, 0); break; }
     case 'fr-del': { const fr = FRS(); fr.list = fr.list.filter(x => x.c !== b.dataset.c); fr.re = (fr.re || []).filter(x => x.to !== b.dataset.c); delete frData[b.dataset.c]; frSaveCache(); save(); closeAll(); render(); if (frOn()) frQueue(false); fbAllowSync(); break; }
     case 'cv-kind': cv.k = b.dataset.k; render(); break;
@@ -12356,7 +12409,7 @@ function reqShow(r) {
 /* Message reçu dans ma boîte (Firebase) */
 function fbInboxMsg(m, me) {
   m = safeIn(m); if (!m || typeof m !== 'object' || Array.isArray(m)) return;
-  const fr = FRS(), from = sUid(m.from); if (!from || from === me) return;
+  const fr = FRS(), from = sUid(m.from); if (!from || from === me || isBlk(from)) return;
   m.type = sStr(m.type, 10); m.h = sH(m.h); m.name = sName(m.name, m.h); m.e = sStr(m.e, 8); m.t = sStr(m.t, 40); m.id = sStr(m.id, 80); m.k = sStr(m.k, 12); m.gid = sStr(m.gid, 6).toUpperCase().replace(/[^A-Z0-9]/g, ''); m.gn = sStr(m.gn, 30); m.ref = m.ref === 1 && m.type === 'req' ? 1 : 0;
   const c = 'fb:' + from, isFr = fr.list.some(f => f.c === c);
   if (!isFr && !['req', 'add', 'acc'].includes(m.type)) return; // encouragements et défis : seulement entre amis
@@ -12442,7 +12495,7 @@ function frSearch() {
     if (!u) { const r = $('#frsr'); if (r) r.innerHTML = `<p class="muted small center" style="margin:10px 0">${T('Reconnecte-toi pour chercher tes amis.', 'Sign in again to search for friends.')}</p><button class="btn primary block" data-act="frs-login">${T('Se reconnecter', 'Sign in')}</button>`; return; }
     const db = fbDb(), col = db.collection('handles'), FP = firebase.firestore.FieldPath.documentId();
     const [a, b] = await Promise.all([col.where(FP, '>=', q).where(FP, '<', q + '').limit(8).get(), qn.length >= 2 ? col.where('nl', '>=', qn).where('nl', '<', qn + '').limit(8).get() : Promise.resolve({docs: []})]);
-    const me = fbMe(), seen = new Set(); frsRes = [...a.docs, ...b.docs].map(d => safeHandle(d.id, d.data())).filter(x => x && (!me || x.uid !== me.uid) && !seen.has(x.uid) && seen.add(x.uid)).slice(0, 10); frsQ = q; frSearchRender();
+    const me = fbMe(), seen = new Set(); frsRes = [...a.docs, ...b.docs].map(d => safeHandle(d.id, d.data())).filter(x => x && (!me || x.uid !== me.uid) && !isBlk(x.uid) && !seen.has(x.uid) && seen.add(x.uid)).slice(0, 10); frsQ = q; frSearchRender();
   } catch (e) {
     if (e.code === 'permission-denied') { // la recherche par liste est bloquée par les règles : on essaie au moins le @pseudo exact
       try { const d = await fbDb().collection('handles').doc(q).get(), me = fbMe(), x = d.exists ? safeHandle(d.id, d.data()) : null;
